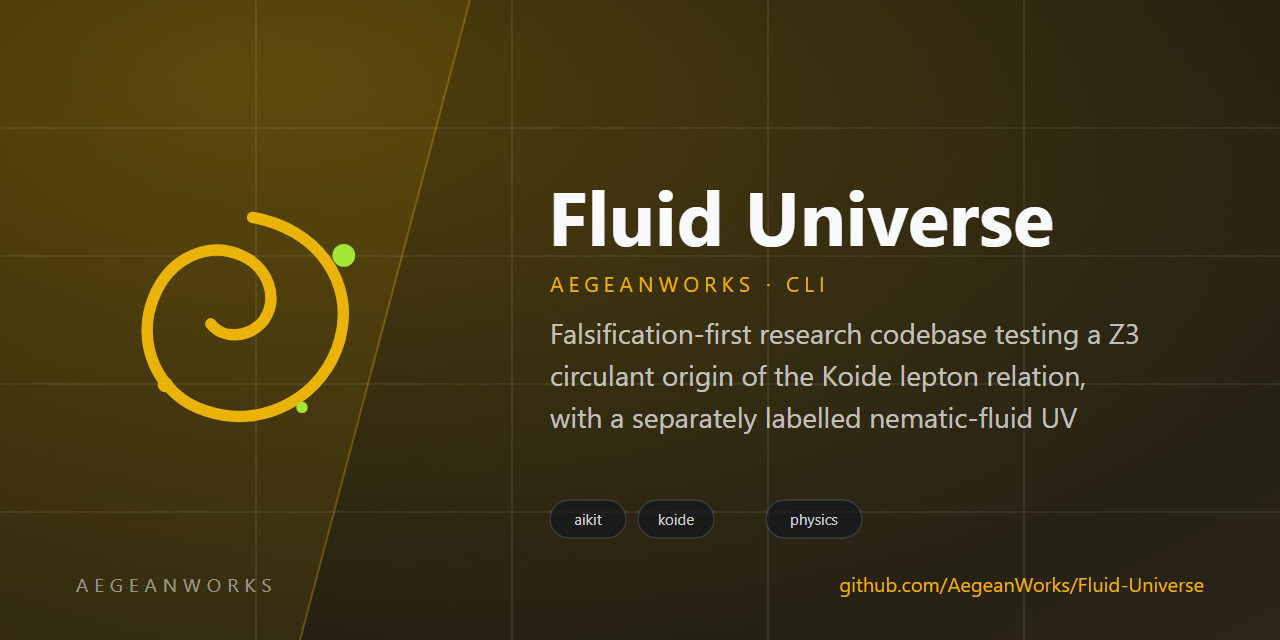
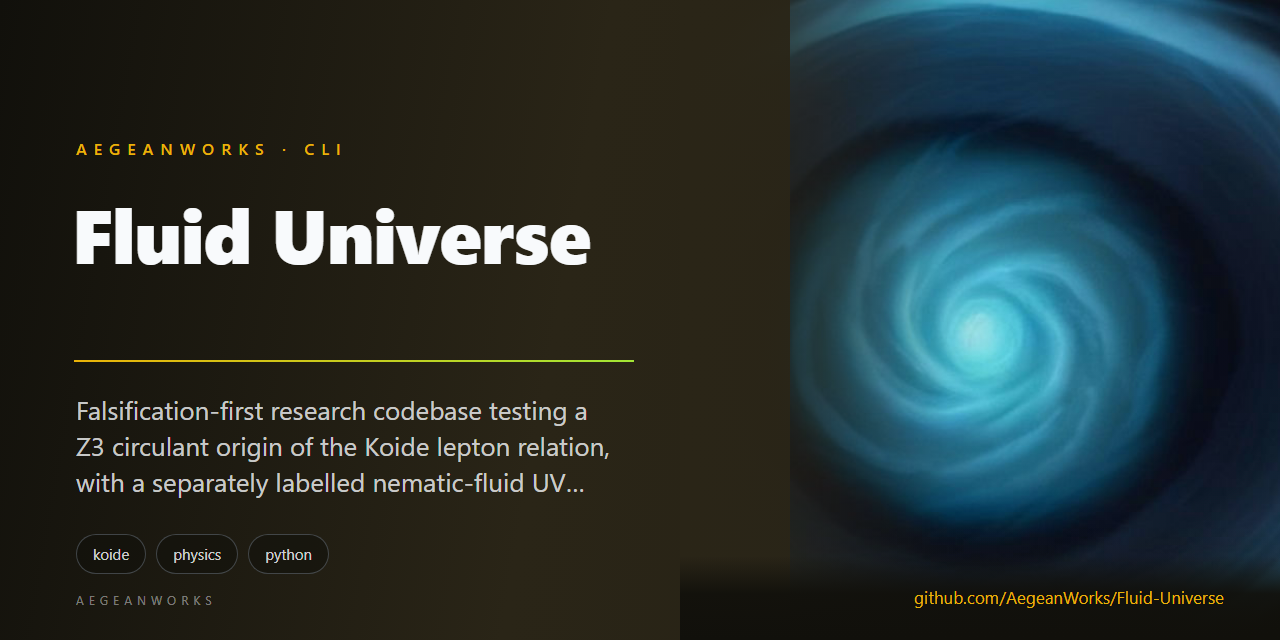
feat(brand): replace procedural marks with reviewed AI-art identities

diff --git a/README.md b/README.md
@@ -1,8 +1,8 @@
 # fluid-universe
 
 <!-- aegean:media:start -->
-<p align="center"><img src="assets/logo.svg" alt="Fluid-Universe logo" width="96" height="96"></p>
-<p align="center"><img src="assets/social-preview.svg" alt="Fluid-Universe social preview" width="100%"></p>
+<p align="center"><img src="assets/logo.png" alt="Fluid-Universe logo" width="96" height="96"></p>
+<p align="center"><img src="assets/social-preview.png" alt="Fluid-Universe social preview" width="100%"></p>
 <!-- aegean:media:end -->
 
 [![Built with AIKit](https://img.shields.io/badge/built%20with-AIKit-6f42c1)](https://github.com/AegeanWorks/AIKit)
